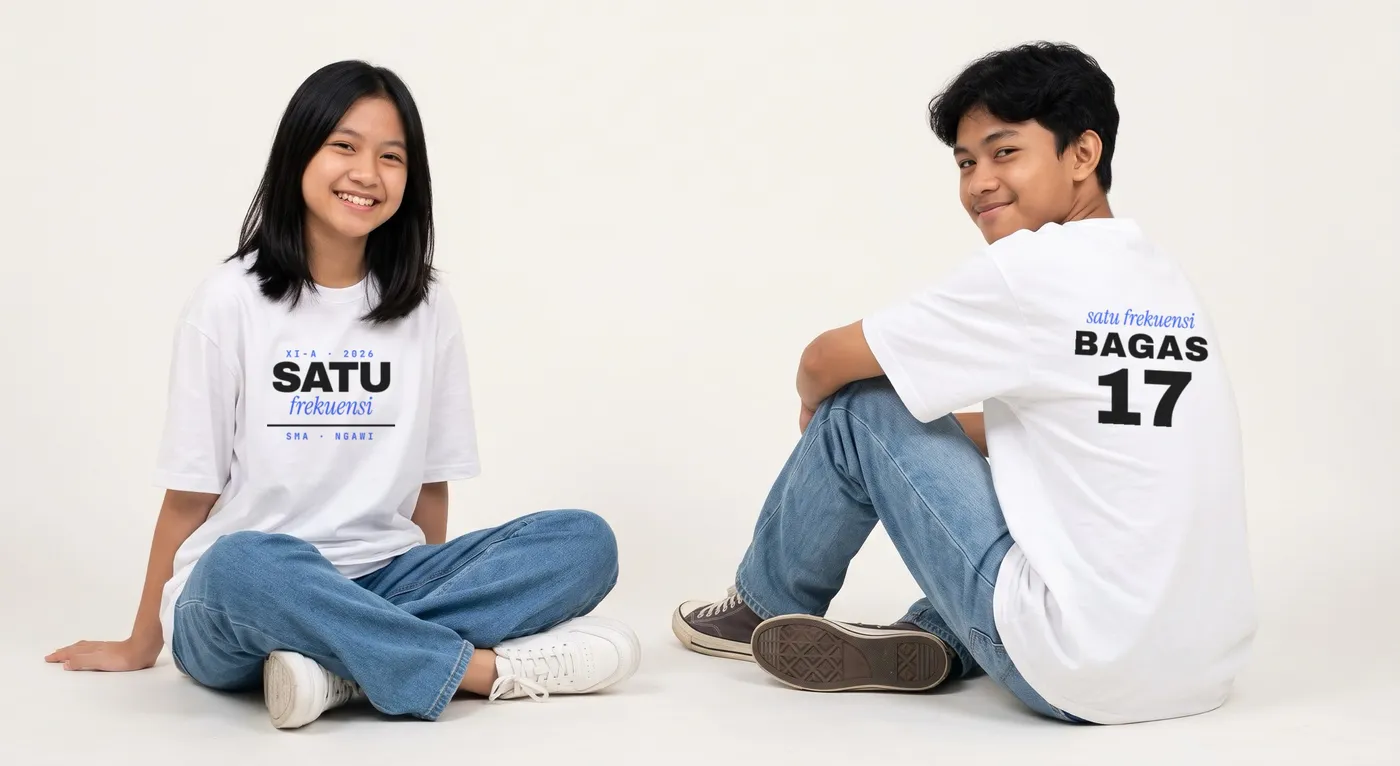
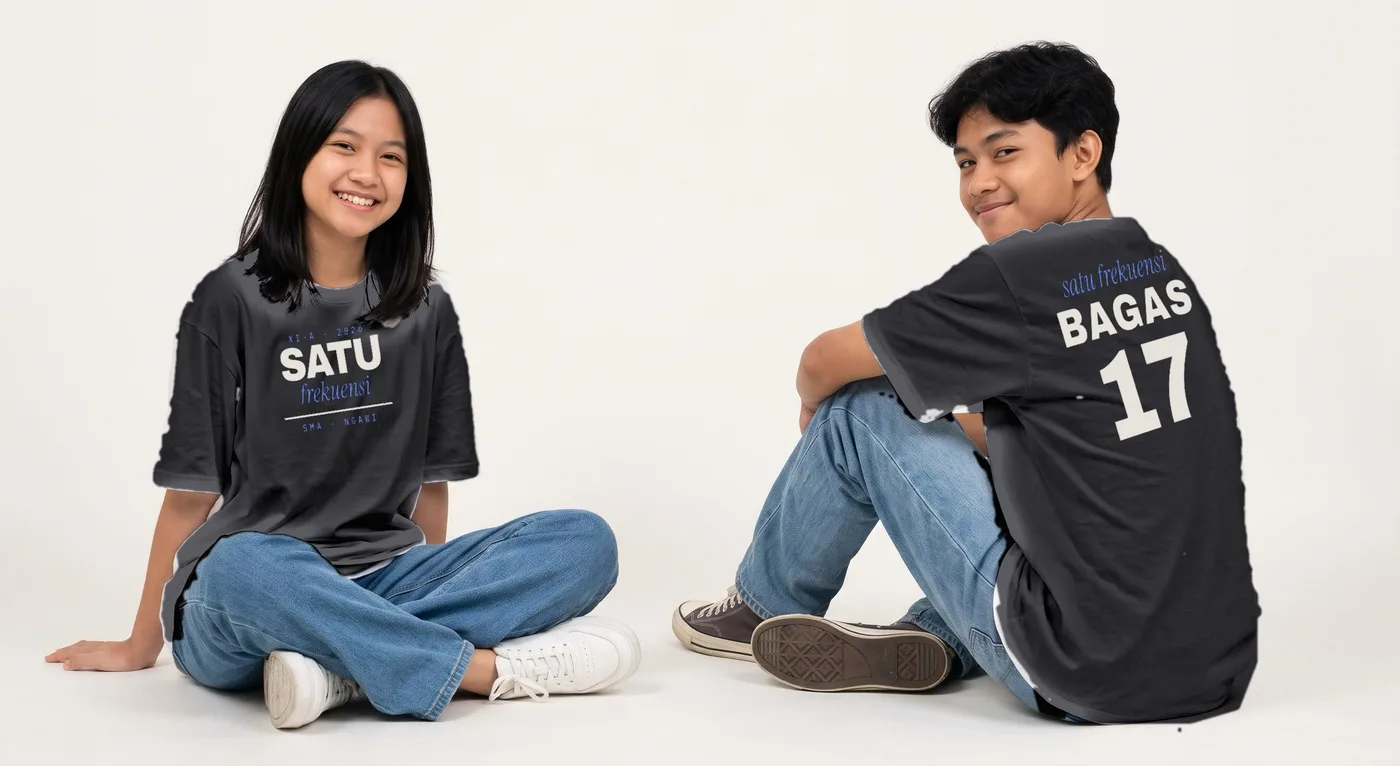
Halaman /kelas/: kaos di foto model jadi hitam, sablon mengikuti miring badan
Claude-Session: https://claude.ai/code/session_01J2nELJ7XbJnmA6ZdzWXG9r

Changed region(s): [[0.6143, 0.2702, 0.9214, 0.9608], [0.0921, 0.3303, 0.3686, 0.8407]]

diff --git a/public/kelas/index.html b/public/kelas/index.html
@@ -146,7 +146,7 @@
 </div>
 
 <div class="w dipakai">
-  <img src="/kelas/kaos-kelas-dipakai.webp" width="1400" height="766" alt="Dua siswa memakai kaos kelas putih: depan bertuliskan Satu Frekuensi XI-A, belakang nama Bagas nomor 17">
+  <img src="/kelas/kaos-kelas-dipakai.webp" width="1400" height="766" alt="Dua siswa memakai kaos kelas hitam: depan bertuliskan Satu Frekuensi XI-A, belakang nama Bagas nomor 17">
   <p class="catatan">Depan: nama kelas. Belakang: nama &amp; nomor tiap anak. <span style="opacity:.7">(Foto ilustrasi, desain bisa diganti sesukamu.)</span></p>
 </div>
 
